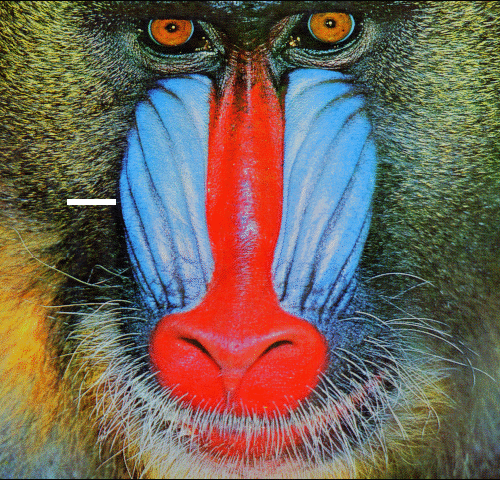
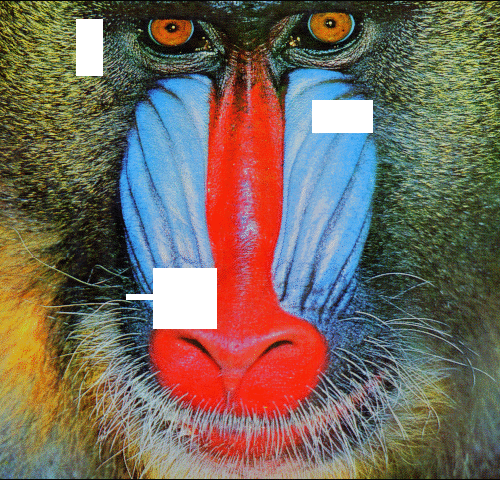
update

diff --git a/create_sample.py b/create_sample.py
@@ -1,48 +1,55 @@
-import cv2
-import numpy as np
-import random
-import tensorflow as tf
 import os
-
-# Hides tensorflow outputs and warnings
-tf.compat.v1.logging.set_verbosity(tf.compat.v1.logging.ERROR)
-os.environ["TF_CPP_MIN_LOG_LEVEL"] = "2"
-
-# Prevents complete memory allocation of gpu
-config = tf.compat.v1.ConfigProto()
-config.gpu_options.allow_growth = True
-session = tf.compat.v1.Session(config=config)
-tf.compat.v1.keras.backend.set_session(session)
-
-image_name = "comic.png"
-image = np.array(cv2.imread(image_name))
-
-dim = image.shape
-minX = dim[0] // 10
-minY = dim[1] // 10
-max_size = 64
-
-# image = np.array(tf.image.random_crop(image, size=(dim, dim, 3)))
-
-shape = image.shape
-print(shape)
+import cv2
+import random
+import numpy as np
 
 
-x1 = random.randint(0, dim[0] - minX)
-x2 = random.randint(x1, dim[0])
-while x2 - x1 > max_size:
-    x2 = random.randint(x1, dim[0])
+def main():
 
-y1 = random.randint(0, dim[1] - minY)
-y2 = random.randint(y1, dim[1])
-while y2 - y1 > max_size:
-    y2 = random.randint(y1, dim[1])
+    image_names = os.listdir("evaluation/original/")
+
+    for image_name in image_names:
+        image = np.array(cv2.imread(f"evaluation/original/{image_name}"))
+
+        dim = image.shape
+        minX = dim[0] // 10
+        minY = dim[1] // 10
+        max_size = 64
+
+        # image = np.array(tf.image.random_crop(image, size=(dim, dim, 3)))
+        num = random.choice([1, 2, 3, 4])
+        num = 4
+        for _ in range(num):
+            x1 = random.randint(0, dim[0] - minX)
+            x2 = random.randint(x1, dim[0])
+            while x2 - x1 > max_size:
+                x2 = random.randint(x1, dim[0])
+
+            y1 = random.randint(0, dim[1] - minY)
+            y2 = random.randint(y1, dim[1])
+            while y2 - y1 > max_size:
+                y2 = random.randint(y1, dim[1])
+
+            x = [x1, x2]
+            y = [y1, y2]
+            image[x1:x2, y1:y2] = 255
+        # print(f"x: {x}, dim: {x2 - x1}")
+        # print(f"y: {y}, dim: {y2 - y1}")
+
+        cv2.imwrite(f"evaluation/input/{image_name}", image)
 
 
-x = [x1, x2]
-y = [y1, y2]
-image[x1:x2, y1:y2] = 255
-print(f"x: {x}, dim: {x2 - x1}")
-print(f"y: {y}, dim: {y2 - y1}")
+if __name__ == "__main__":
+    import tensorflow as tf
 
-cv2.imwrite(f"evaluation/original/{image_name}", image)
+    # Hides tensorflow outputs and warnings
+    tf.compat.v1.logging.set_verbosity(tf.compat.v1.logging.ERROR)
+    os.environ["TF_CPP_MIN_LOG_LEVEL"] = "2"
+
+    # Prevents complete memory allocation of gpu
+    config = tf.compat.v1.ConfigProto()
+    config.gpu_options.allow_growth = True
+    session = tf.compat.v1.Session(config=config)
+    tf.compat.v1.keras.backend.set_session(session)
+
+    main()

diff --git a/train.py b/train.py
@@ -14,7 +14,8 @@ from tqdm import tqdm, trange
 
 def main():
     # Parameters
-    dataset_path = "data/COCO/"
+    dataset_path = "data/ImageNet/Data/"
+    mask_path = "data/masks/"
     batch_size = 8
     epochs = 500
     steps_per_epoch = 1000
@@ -23,6 +24,7 @@ def main():
     ### Training Loop ###
     training(
         dataset_path=dataset_path,
+        mask_path=mask_path,
         batch_size=batch_size,
         epochs=epochs,
         steps_per_epoch=steps_per_epoch,
@@ -30,7 +32,7 @@ def main():
     )
 
 
-def training(dataset_path, batch_size, epochs, steps_per_epoch, workers):
+def training(dataset_path, mask_path, batch_size, epochs, steps_per_epoch, workers):
     # Metrics
     saved_loss = float("inf")
     lr_decay_num = 20
@@ -48,10 +50,22 @@ def training(dataset_path, batch_size, epochs, steps_per_epoch, workers):
         p = mp.Pool(workers)
 
     # Get Image Paths
-    dataset_paths = list(os.listdir(dataset_path))
-    dataset_paths = np.array(
-        [f"{dataset_path}{image_path}" for image_path in dataset_paths]
-    )
+    dataset_paths = []
+    # r=root, d=directories, f = files
+    for root, directories, files in os.walk(dataset_path):
+        for file in files:
+            # if file.endswith(".png"):
+            dataset_paths.append(os.path.join(root, file))
+    dataset_paths = np.array(dataset_paths)
+
+    # Get Mask Paths
+    mask_paths = []
+    # r=root, d=directories, f = files
+    for root, directories, files in os.walk(mask_path):
+        for file in files:
+            # if file.endswith(".png"):
+            mask_paths.append(os.path.join(root, file))
+    mask_paths = np.array(mask_paths)
 
     # Main Loop
     for e in tqdm(range(1, epochs + 1)):
@@ -66,12 +80,20 @@ def training(dataset_path, batch_size, epochs, steps_per_epoch, workers):
             image_paths = dataset_paths[
                 np.random.randint(0, len(dataset_paths), size=(batch_size))
             ]
+            # Get mask_image paths
+            mask_image_paths = mask_paths[
+                np.random.randint(0, len(mask_paths), size=(batch_size))
+            ]
+
+            data = []
+            for i in range(len(image_paths)):
+                data.append((image_paths[i], mask_image_paths[i]))
 
             # Load Images
             if workers != 1:
-                X, y = utils.load_multiprocessing(p, image_paths)
+                X, y = utils.load_multiprocessing(p, data)
             else:
-                X, y = utils.load(image_paths)
+                X, y = utils.load(data)
 
             # Train Model
             metrics = model.train_on_batch(X, y)

diff --git a/utils.py b/utils.py
@@ -7,8 +7,8 @@ import cv2
 
 
 # This method returns the batch of images using multiprocessing for faster interpolation
-def load_multiprocessing(multiprocessing_pool, image_paths):
-    batch = multiprocessing_pool.map(get_set, image_paths)
+def load_multiprocessing(multiprocessing_pool, data):
+    batch = multiprocessing_pool.map(get_set, data)
 
     X = []
     y = []
@@ -24,12 +24,12 @@ def load_multiprocessing(multiprocessing_pool, image_paths):
 
 
 # This method returns the batch of images of length batch_size
-def load(image_paths):
+def load(data):
     X = []
     y = []
 
-    for image_path in image_paths:
-        a, b = get_set(image_path)
+    for image_path in data:
+        a, b = get_set(data)
 
         X.append(a)
         y.append(b)
@@ -41,10 +41,11 @@ def load(image_paths):
 
 
 # This method returns a set of X, y images.
-def get_set(image_path):
-    dim = 64
-    # Read Image from Path
-    image = cv2.imread(image_path)
+def get_set(data):
+    dim = 96
+    # Read Image and Mask from Path
+    image = cv2.imread(data[0])
+    mask = np.array(cv2.imread(data[1]))
 
     # Crop / Resize Sample
     temp_dim = image.shape
@@ -71,12 +72,16 @@ def get_set(image_path):
     # Store y
     y = image.copy()
 
+    mask, _, _ = np.array(cv2.split(mask))
+    mask = cv2.resize(mask, (dim, dim))
+    image = cv2.bitwise_or(image, image, mask=mask)
+
     ### Image Interpolation ###
-    x1 = random.randint(0, dim)
-    x2 = random.randint(x1, dim)
-    y1 = random.randint(0, dim)
-    y2 = random.randint(y1, dim)
-    image[x1:x2, y1:y2] = 255
+    # x1 = random.randint(0, dim)
+    # x2 = random.randint(x1, dim)
+    # y1 = random.randint(0, dim)
+    # y2 = random.randint(y1, dim)
+    # image[x1:x2, y1:y2] = 255
 
     # Store X
     X = image

diff --git a/output.py b/output.py
@@ -1,6 +1,8 @@
 import os
-import cv2
+
+import matplotlib.pyplot as plt
 import numpy as np
+import cv2
 
 
 def evaluate(model, concat=True, summary=True):
@@ -41,9 +43,38 @@ def evaluate(model, concat=True, summary=True):
                 np.concatenate((original, white, input, white, output), axis=1),
             )
 
+            f = plt.figure()
+
+            img1 = f.add_subplot(1, 3, 1)
+            plt.imshow(cv2.cvtColor(np.array(original), cv2.COLOR_BGR2RGB))
+
+            img2 = f.add_subplot(1, 3, 2)
+            plt.imshow(
+                cv2.cvtColor(np.array(input), cv2.COLOR_BGR2RGB),
+            )
+
+            img3 = f.add_subplot(1, 3, 3)
+            output = np.clip(output, 0, 255).astype(np.uint8)
+            plt.imshow(cv2.cvtColor(output, cv2.COLOR_BGR2RGB))
+
+            img1.set_xlabel("original")
+            img1.xaxis.set_ticks([])
+            img1.yaxis.set_ticks([])
+
+            img2.set_xlabel(f"interpolated")
+            img2.xaxis.set_ticks([])
+            img2.yaxis.set_ticks([])
+
+            img3.set_xlabel(f"network / {round(cv2.PSNR(original, output), 2)}dB")
+            img3.xaxis.set_ticks([])
+            img3.yaxis.set_ticks([])
+
+            plt.savefig(f"evaluation/plot/{image_name}", dpi=500, bbox_inches="tight")
+
 
 if __name__ == "__main__":
     import tensorflow as tf
+    from create_sample import main
     from keras.models import load_model
 
     # If uncommented, forces the use of the cpu or gpu
@@ -60,4 +91,5 @@ if __name__ == "__main__":
     tf.compat.v1.keras.backend.set_session(session)
 
     model = load_model("weights/weights.h5")
+    main()
     evaluate(model)

diff --git a/test.py b/test.py
@@ -1,0 +1,25 @@
+import numpy as np
+import cv2
+import os
+
+mask_path = "data/masks/"
+mask_paths = list(os.listdir(mask_path))
+mask_paths = np.array([f"{mask_path}{image_path}" for image_path in mask_paths])
+
+image = np.array(cv2.imread("data/Set5/butterfly.png"))
+
+
+mask = cv2.imread(mask_paths[1])
+dim = (image.shape[0], image.shape[1])
+mask = cv2.resize(mask, dim)
+mask, _, _ = np.array(cv2.split(mask))
+
+masked = cv2.bitwise_or(image, image, mask=mask)
+
+print(mask.shape)
+
+
+cv2.imshow("img", image)
+# cv2.imshow("mask", mask)
+cv2.imshow("masked image", masked)
+cv2.waitKey()
